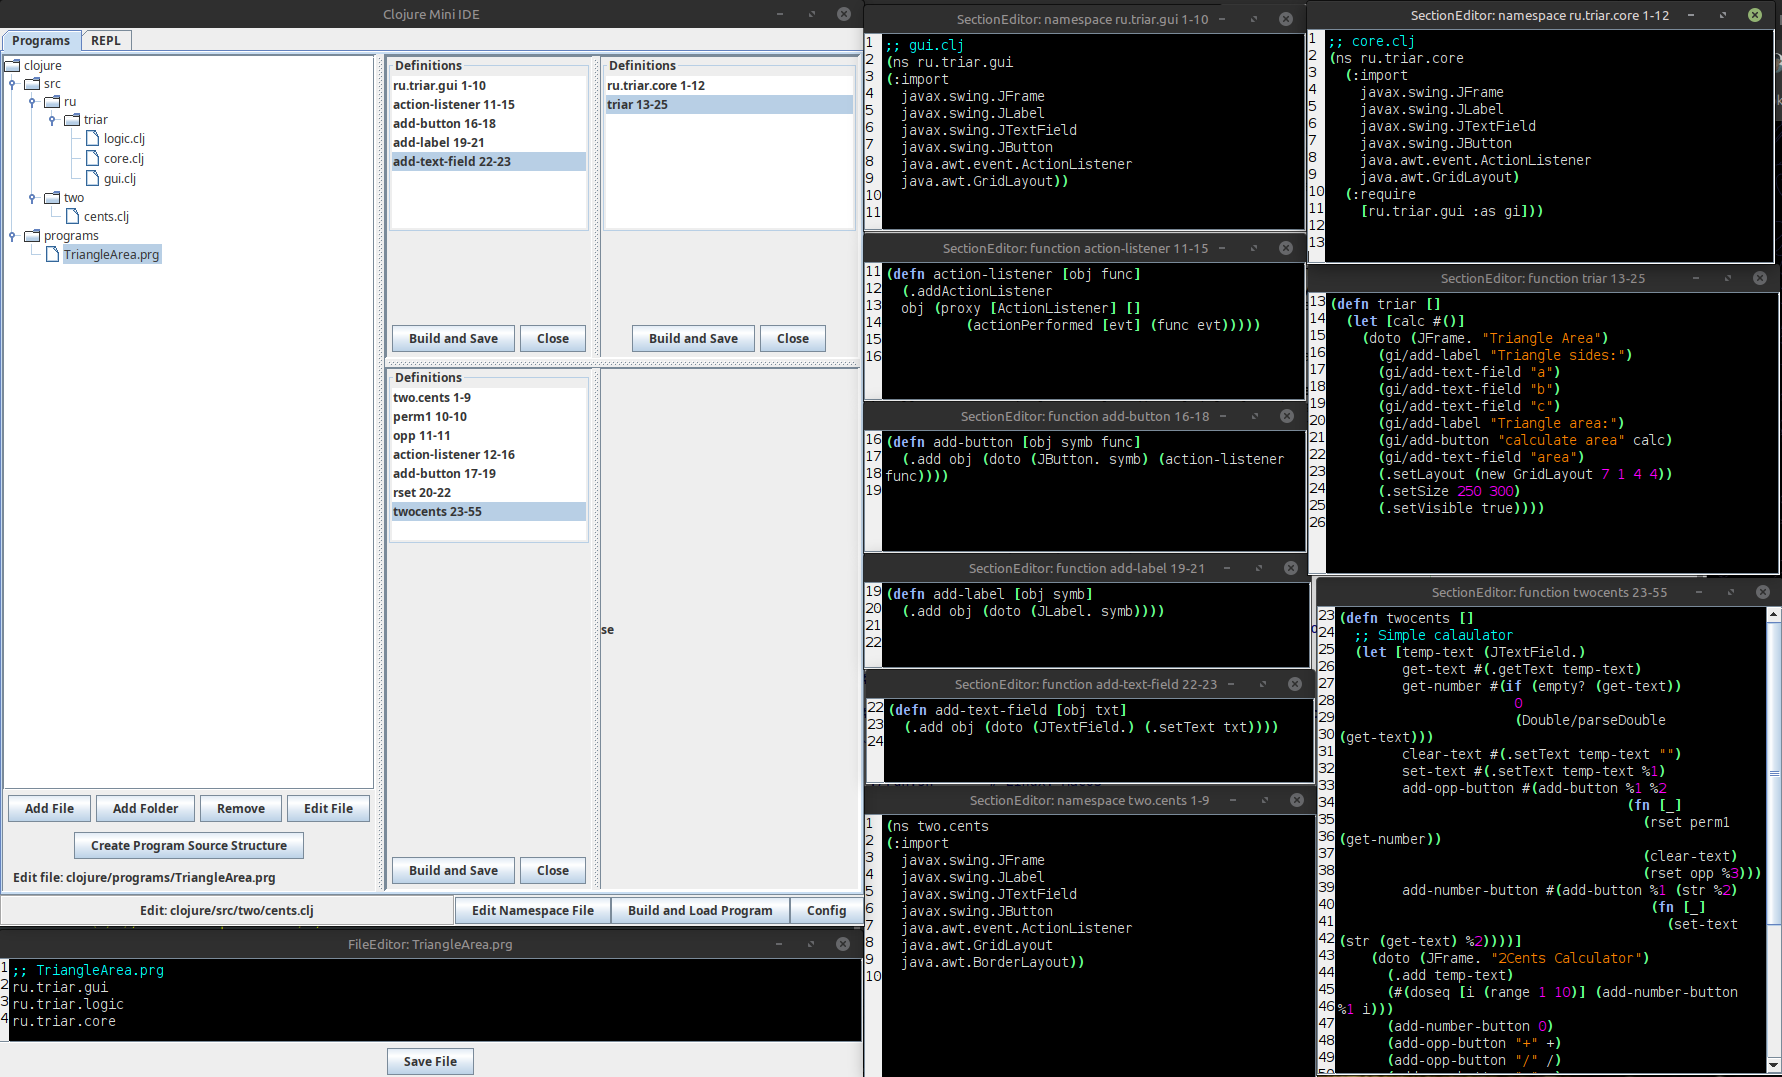
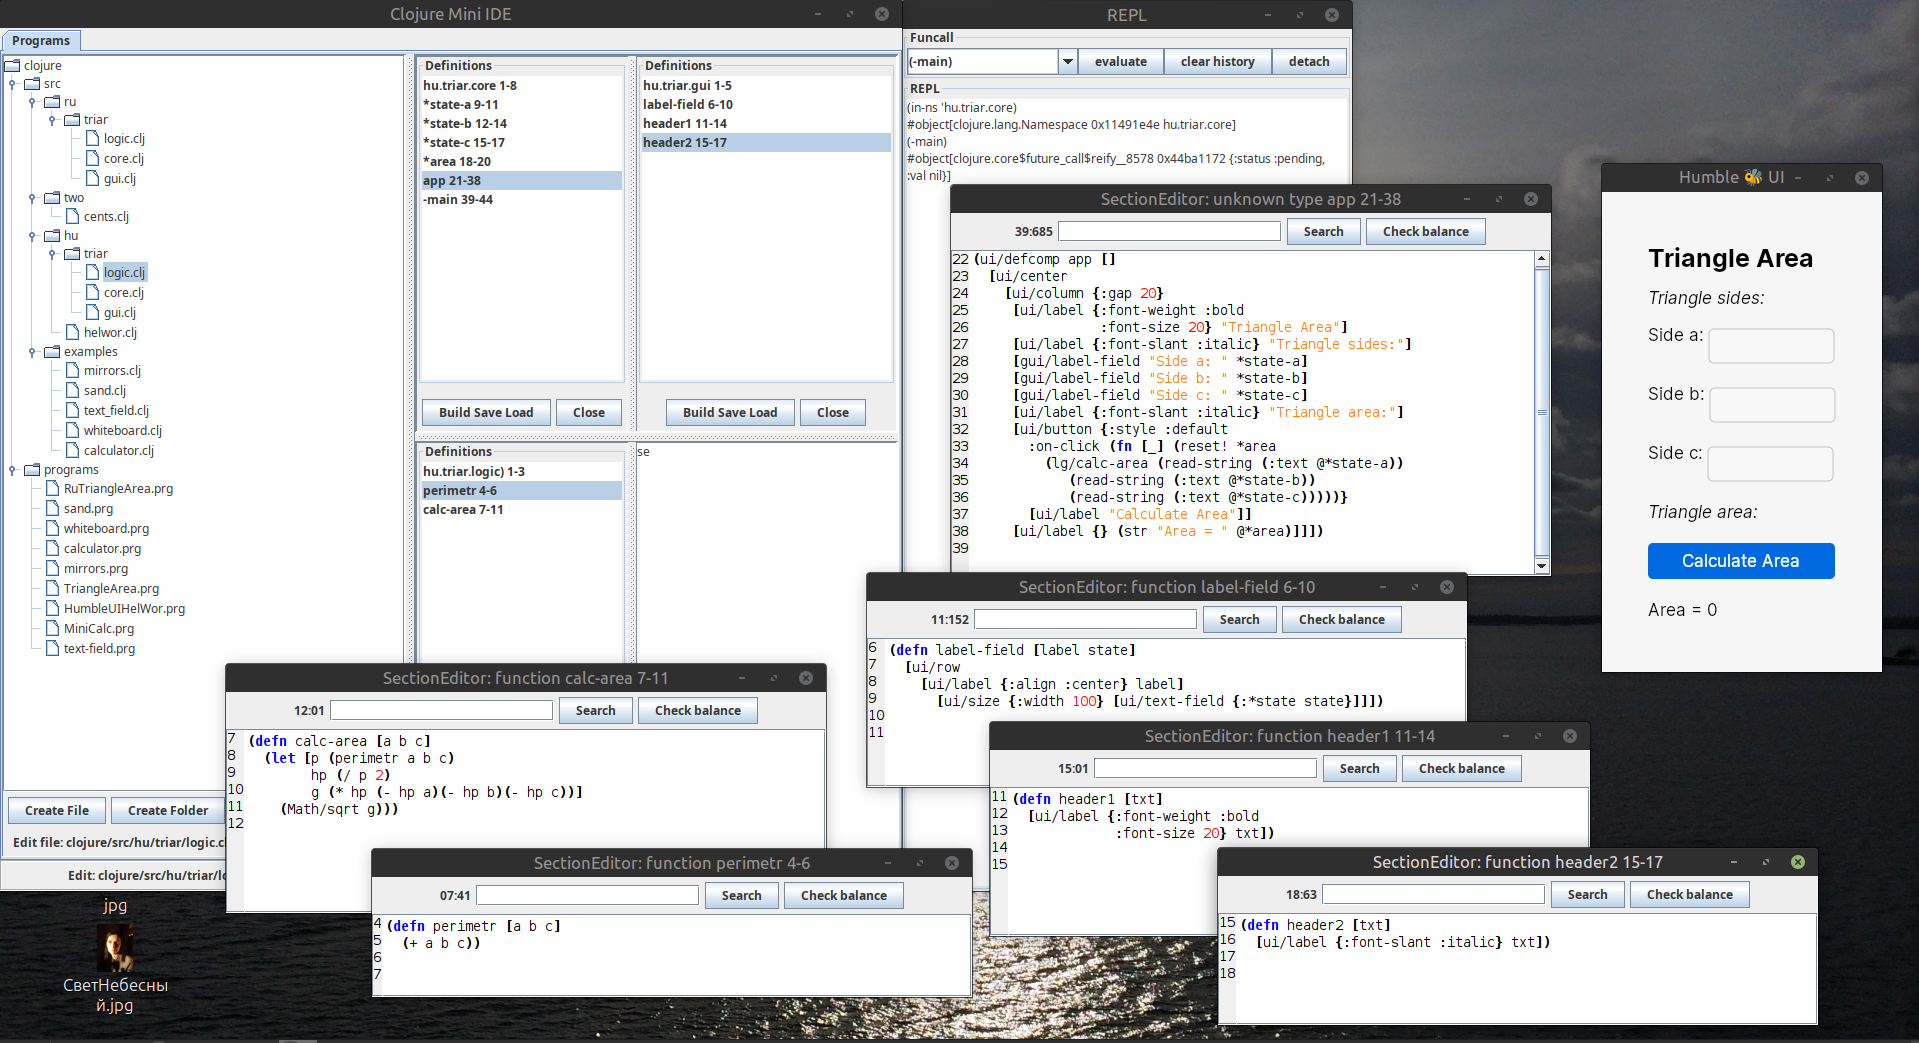
screenshot updated

diff --git a/README.md b/README.md
@@ -41,7 +41,7 @@ add the corresponding prefixes to separate lines in this file.
 
 [Lesson 1. HumbleUI Examples](https://www.youtube.com/watch?v=aVcTWrnw5Wg)
 
-[Lesson 2. Simple Program]( https://youtu.be/1GceJ_KvfRA )
+[Lesson 2. Simple Program](https://www.youtube.com/watch?v=1GceJ_KvfRA)
 
 ## License
 